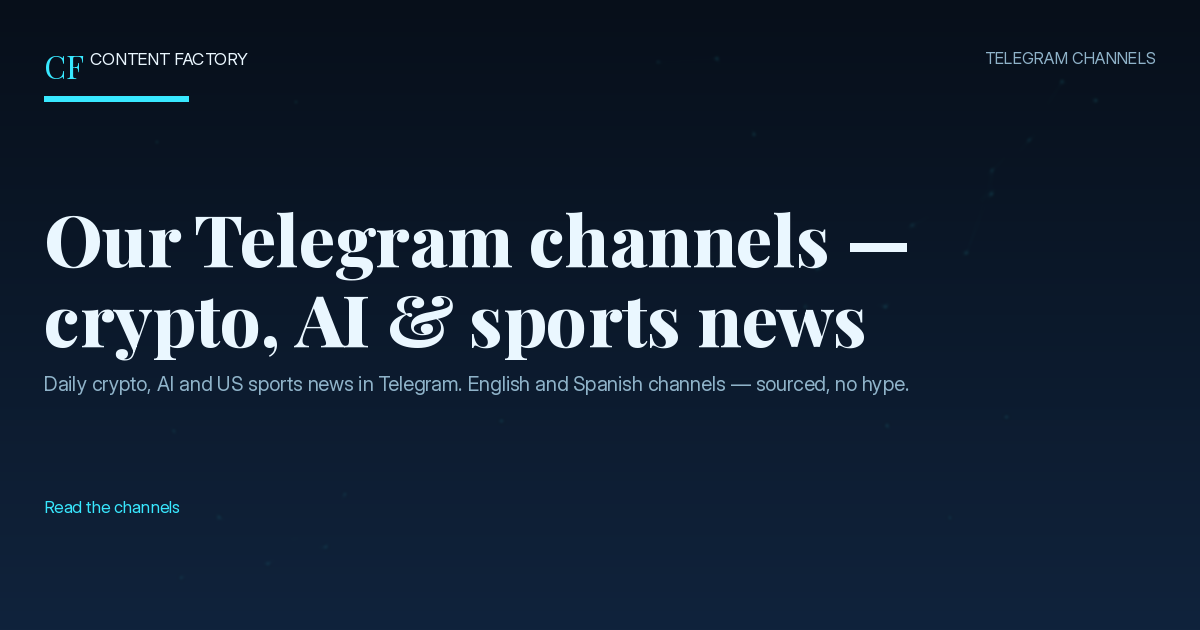
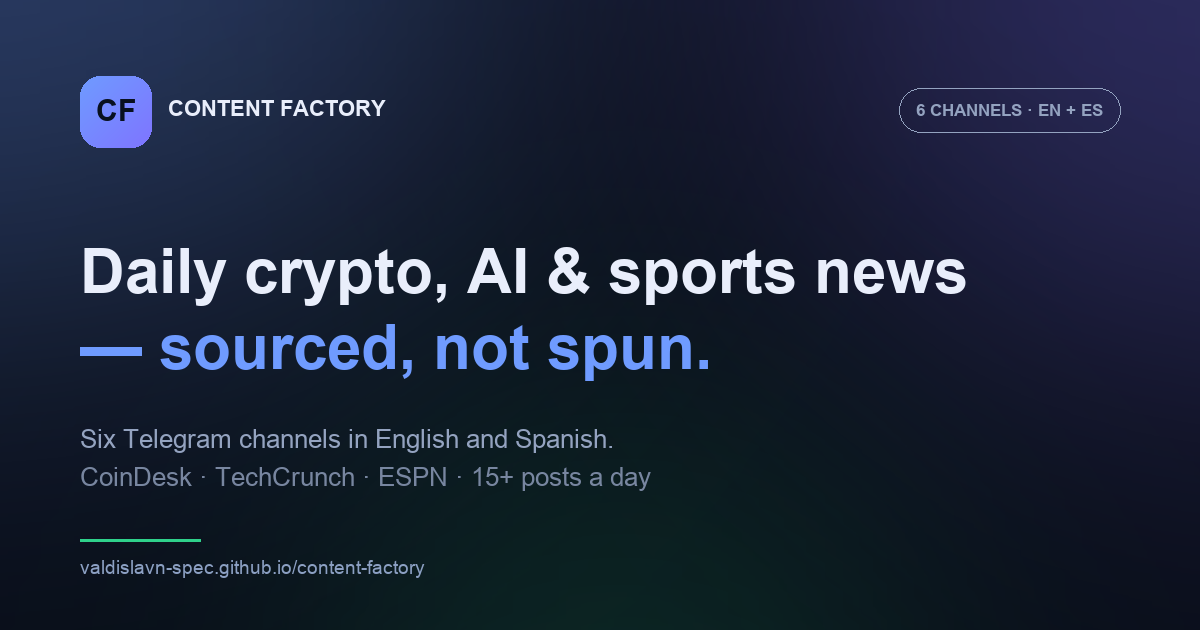
fix(channels): сеть приведена к фактическому состоянию Telegram + автопроверка лендинга
Проверено через Bot API из GitHub-раннера (telegram-check, 14.11 13:05 UTC):
все 6 каналов существуют, бот администратор, can_post=True. Расхождений в
количестве нет — расходились названия и подписи.

- config/channels.es.yaml: title «ES Sports Analytics» → «ES Sports News»
  (фактическое имя канала в Telegram)
- scripts/vp_outreach.py, config/mastodon_queue.yaml, tests: та же номинация
- scripts/check_landing_channels.py: сверяет карточки, ссылки, названия и все
  подписи «N каналов» (eyebrow, hero, footer, JSON-LD) с конфигом
- tests/test_landing_channels.py: 3 теста, ловят рассинхронизацию в CI
- scripts/build_og_index.py + docs/assets/og/index.png: OG-превью в стиле
  лендинга (было от старого дизайна)

Проверено: pytest 1178 passed, 1 skipped; check_landing_channels — OK.

diff --git a/scripts/check_landing_channels.py b/scripts/check_landing_channels.py
@@ -1,0 +1,125 @@
+#!/usr/bin/env python3
+"""Сверка лендинга с конфигом каналов.
+
+Лендинг (`docs/index.html`) — витрина сети. Число карточек, ссылки, названия
+и подписи «N каналов» должны совпадать с `config/channel_links.yaml` и
+`config/channels.{en,es}.yaml`. Иначе на сайте появляется «6 каналов», когда
+их пять (или наоборот) — ровно та рассинхронизация, которую ловит этот скрипт.
+
+    python scripts/check_landing_channels.py            # проверка, код 0/1
+    python scripts/check_landing_channels.py --json     # машинный вывод
+"""
+from __future__ import annotations
+
+import argparse
+import html as H
+import json
+import re
+import sys
+from pathlib import Path
+from typing import Any, Dict, List
+
+ROOT = Path(__file__).resolve().parent.parent
+sys.path.insert(0, str(ROOT))
+
+import yaml  # noqa: E402
+
+LANDING = ROOT / "docs" / "index.html"
+
+
+def load_channels() -> List[Dict[str, str]]:
+    """Каналы витрины: id, title, ссылка — из конфигов."""
+    links = yaml.safe_load((ROOT / "config" / "channel_links.yaml").read_text(encoding="utf-8")) or {}
+    out: List[Dict[str, str]] = []
+    for name in ("channels.en.yaml", "channels.es.yaml"):
+        data = yaml.safe_load((ROOT / "config" / name).read_text(encoding="utf-8")) or {}
+        for channel in data.get("channels") or []:
+            if not isinstance(channel, dict):
+                continue
+            channel_id = str(channel.get("id") or "")
+            url = str(links.get(channel_id) or "").strip()
+            if not channel_id or not url:
+                continue
+            out.append({
+                "id": channel_id,
+                "title": str(channel.get("title") or "").strip(),
+                "url": url,
+            })
+    return out
+
+
+def parse_landing(html: str) -> List[Dict[str, str]]:
+    cards: List[Dict[str, str]] = []
+    for match in re.finditer(r'<a class="chan"[^>]*href="([^"]+)"[^>]*>(.*?)</a>', html, re.S):
+        url, body = match.group(1), match.group(2)
+        name = re.search(r'<span class="chan-name">(.*?)</span>', body, re.S)
+        cards.append({
+            "url": url,
+            "title": H.unescape(re.sub(r"<[^>]+>", "", name.group(1))).strip() if name else "",
+        })
+    return cards
+
+
+def declared_counts(html: str) -> Dict[str, int]:
+    """Числа, которые страница утверждает о сети."""
+    def num(pattern: str) -> int:
+        found = re.search(pattern, html)
+        return int(found.group(1)) if found else -1
+
+    return {
+        "eyebrow": num(r"Telegram network · (\d+) channels"),
+        "hero_stat": num(r"<b>(\d+)</b> channels"),
+        "footer": num(r"English &amp; Spanish · (\d+) channels"),
+        "json_items": num(r'"numberOfItems": (\d+)'),
+    }
+
+
+def check() -> Dict[str, Any]:
+    html = LANDING.read_text(encoding="utf-8")
+    expected = load_channels()
+    cards = parse_landing(html)
+    problems: List[str] = []
+
+    if len(cards) != len(expected):
+        problems.append(f"карточек на странице {len(cards)}, каналов в конфиге {len(expected)}")
+
+    want_urls = [c["url"] for c in expected]
+    got_urls = [c["url"] for c in cards]
+    for url in want_urls:
+        if url not in got_urls:
+            problems.append(f"канал из конфига отсутствует на странице: {url}")
+    for url in got_urls:
+        if url not in want_urls:
+            problems.append(f"на странице есть канал вне конфига: {url}")
+
+    titles = {c["url"]: c["title"] for c in expected}
+    for card in cards:
+        want = titles.get(card["url"])
+        if want and card["title"] and card["title"] != want:
+            problems.append(f"название расходится: страница «{card['title']}», конфиг «{want}»")
+
+    total = len(expected)
+    for label, value in declared_counts(html).items():
+        if value != total:
+            problems.append(f"подпись «{label}» = {value}, а каналов {total}")
+
+    return {"ok": not problems, "channels": total, "cards": len(cards), "problems": problems}
+
+
+def main(argv=None) -> int:
+    parser = argparse.ArgumentParser(description="Сверка лендинга с конфигом каналов")
+    parser.add_argument("--json", action="store_true")
+    args = parser.parse_args(argv)
+    result = check()
+    if args.json:
+        print(json.dumps(result, ensure_ascii=False, indent=2))
+    else:
+        print(f"каналов в конфиге: {result['channels']} · карточек на странице: {result['cards']}")
+        for problem in result["problems"]:
+            print("  ✗", problem)
+        print("OK" if result["ok"] else "РАСХОЖДЕНИЕ")
+    return 0 if result["ok"] else 1
+
+
+if __name__ == "__main__":
+    raise SystemExit(main())

diff --git a/scripts/build_og_index.py b/scripts/build_og_index.py
@@ -1,0 +1,97 @@
+#!/usr/bin/env python3
+"""OG-картинка главной (1200×630) в стиле лендинга.
+
+    ./.venv/bin/python scripts/build_og_index.py
+
+Пишет docs/assets/og/index.png — превью ссылки в Telegram/X/Slack.
+"""
+from __future__ import annotations
+
+from pathlib import Path
+
+from PIL import Image, ImageDraw, ImageFilter, ImageFont
+
+ROOT = Path(__file__).resolve().parent.parent
+OUT = ROOT / "docs" / "assets" / "og" / "index.png"
+
+W, H = 1200, 630
+BG = (6, 10, 19)
+TEXT = (233, 238, 251)
+MUTED = (148, 163, 192)
+BLUE = (111, 155, 255)
+VIOLET = (127, 116, 255)
+GREEN = (47, 209, 139)
+
+BOLD = "/System/Library/Fonts/Supplemental/Arial Bold.ttf"
+REG = "/System/Library/Fonts/Supplemental/Arial.ttf"
+
+
+def font(path: str, size: int) -> ImageFont.FreeTypeFont:
+    try:
+        return ImageFont.truetype(path, size)
+    except OSError:
+        return ImageFont.load_default()
+
+
+def glow(size, center, radius, color, alpha) -> Image.Image:
+    layer = Image.new("RGBA", size, (0, 0, 0, 0))
+    draw = ImageDraw.Draw(layer)
+    x, y = center
+    draw.ellipse([x - radius, y - radius, x + radius, y + radius], fill=color + (alpha,))
+    return layer.filter(ImageFilter.GaussianBlur(radius // 2))
+
+
+def main() -> int:
+    img = Image.new("RGB", (W, H), BG)
+    img = Image.alpha_composite(img.convert("RGBA"), glow((W, H), (180, -60), 520, BLUE, 90))
+    img = Image.alpha_composite(img, glow((W, H), (1100, 40), 460, VIOLET, 80))
+    img = Image.alpha_composite(img, glow((W, H), (620, 700), 420, GREEN, 45))
+    draw = ImageDraw.Draw(img)
+
+    # бренд-марка
+    mark = Image.new("RGBA", (72, 72), (0, 0, 0, 0))
+    md = ImageDraw.Draw(mark)
+    for y in range(72):
+        for x in range(72):
+            t = (x / 72 + y / 72) / 2
+            md.point((x, y), (int(111 + (127 - 111) * t), int(155 + (116 - 155) * t), 255, 255))
+    mask = Image.new("L", (72, 72), 0)
+    ImageDraw.Draw(mask).rounded_rectangle([0, 0, 71, 71], radius=20, fill=255)
+    mark.putalpha(mask)
+    md = ImageDraw.Draw(mark)
+    cf = font(BOLD, 30)
+    box = md.textbbox((0, 0), "CF", font=cf)
+    md.text(((72 - (box[2] - box[0])) / 2 - box[0], (72 - (box[3] - box[1])) / 2 - box[1] - 2),
+            "CF", font=cf, fill=(8, 16, 31, 255))
+    img.alpha_composite(mark, (80, 76))
+
+    draw.text((168, 96), "CONTENT FACTORY", font=font(BOLD, 22), fill=TEXT)
+
+    chip = font(BOLD, 17)
+    label = "6 CHANNELS · EN + ES"
+    box = draw.textbbox((0, 0), label, font=chip)
+    cw = box[2] - box[0]
+    draw.rounded_rectangle([W - 80 - cw - 34, 88, W - 80, 132], radius=22,
+                           outline=(148, 163, 192, 90), width=1)
+    draw.text((W - 80 - cw - 17, 100), label, font=chip, fill=MUTED)
+
+    # заголовок
+    head = font(BOLD, 62)
+    draw.text((80, 236), "Daily crypto, AI & sports news", font=head, fill=TEXT)
+    draw.text((80, 312), "— sourced, not spun.", font=head, fill=BLUE)
+
+    sub = font(REG, 26)
+    draw.text((80, 424), "Six Telegram channels in English and Spanish.", font=sub, fill=MUTED)
+    draw.text((80, 462), "CoinDesk · TechCrunch · ESPN · 15+ posts a day", font=sub, fill=(120, 134, 160))
+
+    draw.line([80, 540, 200, 540], fill=GREEN, width=3)
+    draw.text((80, 556), "valdislavn-spec.github.io/content-factory", font=font(REG, 19), fill=(140, 160, 195))
+
+    OUT.parent.mkdir(parents=True, exist_ok=True)
+    img.convert("RGB").save(OUT, "PNG", optimize=True)
+    print("wrote", OUT.relative_to(ROOT), f"{OUT.stat().st_size // 1024} KB")
+    return 0
+
+
+if __name__ == "__main__":
+    raise SystemExit(main())

diff --git a/tests/test_landing_channels.py b/tests/test_landing_channels.py
@@ -1,0 +1,32 @@
+"""Лендинг и конфиг каналов не должны расходиться.
+
+Регрессия: на странице могло стоять «6 каналов», когда в сети их пять
+(или наоборот), а карточки вели на удалённый канал.
+"""
+
+from __future__ import annotations
+
+from scripts.check_landing_channels import check, declared_counts, load_channels, parse_landing
+from pathlib import Path
+
+ROOT = Path(__file__).resolve().parents[1]
+
+
+def test_landing_matches_channel_config() -> None:
+    result = check()
+    assert result["ok"], result["problems"]
+
+
+def test_every_channel_has_card_and_link() -> None:
+    channels = load_channels()
+    page = (ROOT / "docs" / "index.html").read_text(encoding="utf-8")
+    cards = parse_landing(page)
+    assert len(channels) == len(cards) == 6
+    assert {c["url"] for c in channels} == {c["url"] for c in cards}
+
+
+def test_declared_counts_match_reality() -> None:
+    page = (ROOT / "docs" / "index.html").read_text(encoding="utf-8")
+    total = len(load_channels())
+    for label, value in declared_counts(page).items():
+        assert value == total, f"{label}: {value} != {total}"

diff --git a/scripts/vp_outreach.py b/scripts/vp_outreach.py
@@ -29,7 +29,7 @@ OUR = {
         "stats": "3.7k subscribers, ~165 views/post, US crypto news",
     },
     "es": {
-        "name": "ES Sports Analytics",
+        "name": "ES Sports News",
         "url": "https://t.me/SPORTSAnalytics007",
         "stats": "nuevo canal de deporte con datos y cuotas (18+)",
     },
@@ -39,7 +39,7 @@ OUR = {
 def build_message(row: dict, region: str) -> str:
     if region == "es":
         return (
-            "Hola 👋 Llevamos ES Sports Analytics — deporte con datos, cuotas y "
+            "Hola 👋 Llevamos ES Sports News — deporte con datos, cuotas y "
             "análisis (18+). Estamos buscando canales de deporte en español para "
             "un intercambio nativo: nuestro post en tu canal a cambio de uno tuyo "
             "en el nuestro (24–48 h, sin spam ni casino). También podemos empezar "

diff --git a/tests/test_es_betting_config.py b/tests/test_es_betting_config.py
@@ -15,8 +15,11 @@ class EsBettingConfigTest(unittest.TestCase):
         }
         self.channel = channels["futbol-es"]
 
-    def test_title_reflects_analytics(self):
-        self.assertIn("Analytics", self.channel.title)
+    def test_title_matches_live_channel(self):
+        # Канал переименован в Telegram: Bot API getChat 14.11.2026 отдаёт
+        # "ES Sports News" (было "ES Sports Analytics"). Держим конфиг равным
+        # фактическому названию, иначе лендинг и Telegram расходятся.
+        self.assertEqual("ES Sports News", self.channel.title)
 
     def test_language_and_strict_topics(self):
         self.assertEqual(self.channel.language, "es")

diff --git a/tests/test_vp_outreach.py b/tests/test_vp_outreach.py
@@ -26,7 +26,7 @@ class BuildMessageTest(unittest.TestCase):
 
     def test_es_message_mentions_channel_and_18(self):
         text = vp_outreach.build_message({"partner": "@x"}, "es")
-        self.assertIn("ES Sports Analytics", text)
+        self.assertIn("ES Sports News", text)
         self.assertIn("18+", text)
         self.assertIn("SPORTSAnalytics007", text)
 
